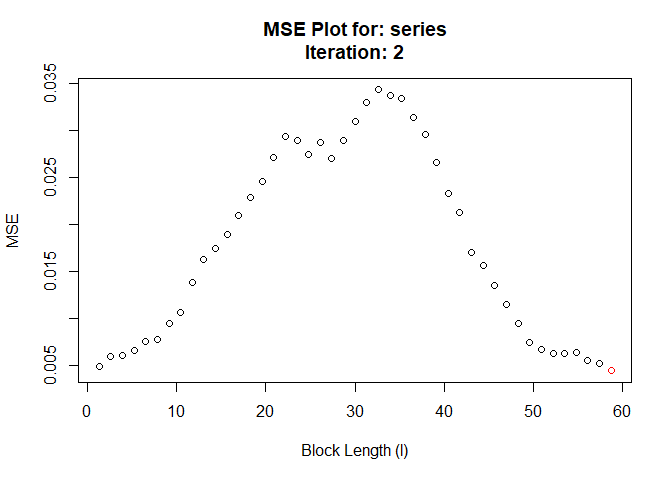
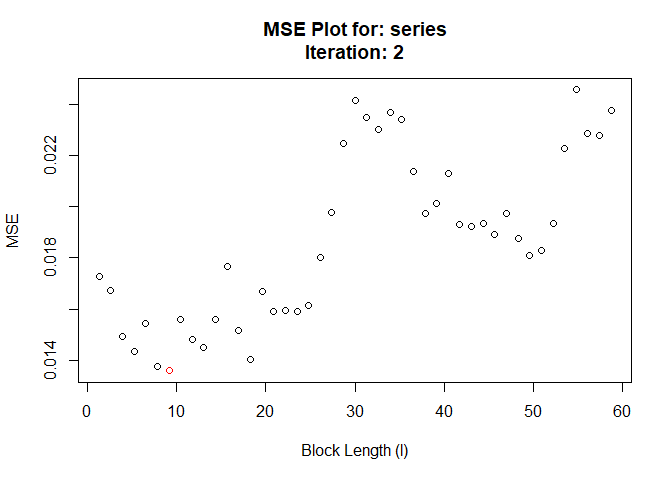
Update Travis CI badge

diff --git a/README.md b/README.md
@@ -6,7 +6,7 @@
 <!-- badges: start -->
 
 [![Travis build
-status](https://travis-ci.com/Alec-Stashevsky/hhjboot.svg?branch=master)](https://travis-ci.com/Alec-Stashevsky/hhjboot)
+status](https://travis-ci.com/Alec-Stashevsky/hhjboot.svg?branch=main)](https://travis-ci.com/Alec-Stashevsky/hhjboot)
 <!-- badges: end -->
 
 The goal of hhjboot is to simplify and automate the process of selecting
@@ -56,17 +56,49 @@ hhjboot(series, sub.block.size = 45)
 #>   as.zoo.data.frame zoo
 #> Performing minimization may take some time
 #> Calculating MSE for each level in subsample: 45 function evaluations required.
-#>  Chosen block length: 59  After iteration: 1
+#>  Chosen block length: 10  After iteration: 1
 ```
 
 <img src="man/figures/README-example-1.png" width="100%" />
 
-    #>  Converged at block length (l): 59
+    #>  Chosen block length: 9  After iteration: 2
 
 <img src="man/figures/README-example-2.png" width="100%" />
 
+    #>  Chosen block length: 10  After iteration: 3
+
+<img src="man/figures/README-example-3.png" width="100%" />
+
+    #>  Chosen block length: 7  After iteration: 4
+
+<img src="man/figures/README-example-4.png" width="100%" />
+
+    #>  Chosen block length: 10  After iteration: 5
+
+<img src="man/figures/README-example-5.png" width="100%" />
+
+    #>  Chosen block length: 8  After iteration: 6
+
+<img src="man/figures/README-example-6.png" width="100%" />
+
+    #>  Chosen block length: 7  After iteration: 7
+
+<img src="man/figures/README-example-7.png" width="100%" />
+
+    #>  Chosen block length: 25  After iteration: 8
+
+<img src="man/figures/README-example-8.png" width="100%" />
+
+    #>  Chosen block length: 40  After iteration: 9
+
+<img src="man/figures/README-example-9.png" width="100%" />
+
+    #>  Converged at block length (l): 40
+
+<img src="man/figures/README-example-10.png" width="100%" />
+
     #> $`Optimal Block Length`
-    #> [1] 59
+    #> [1] 40
     #> 
     #> $`Pilot Number of Blocks (m)`
     #> [1] 45
